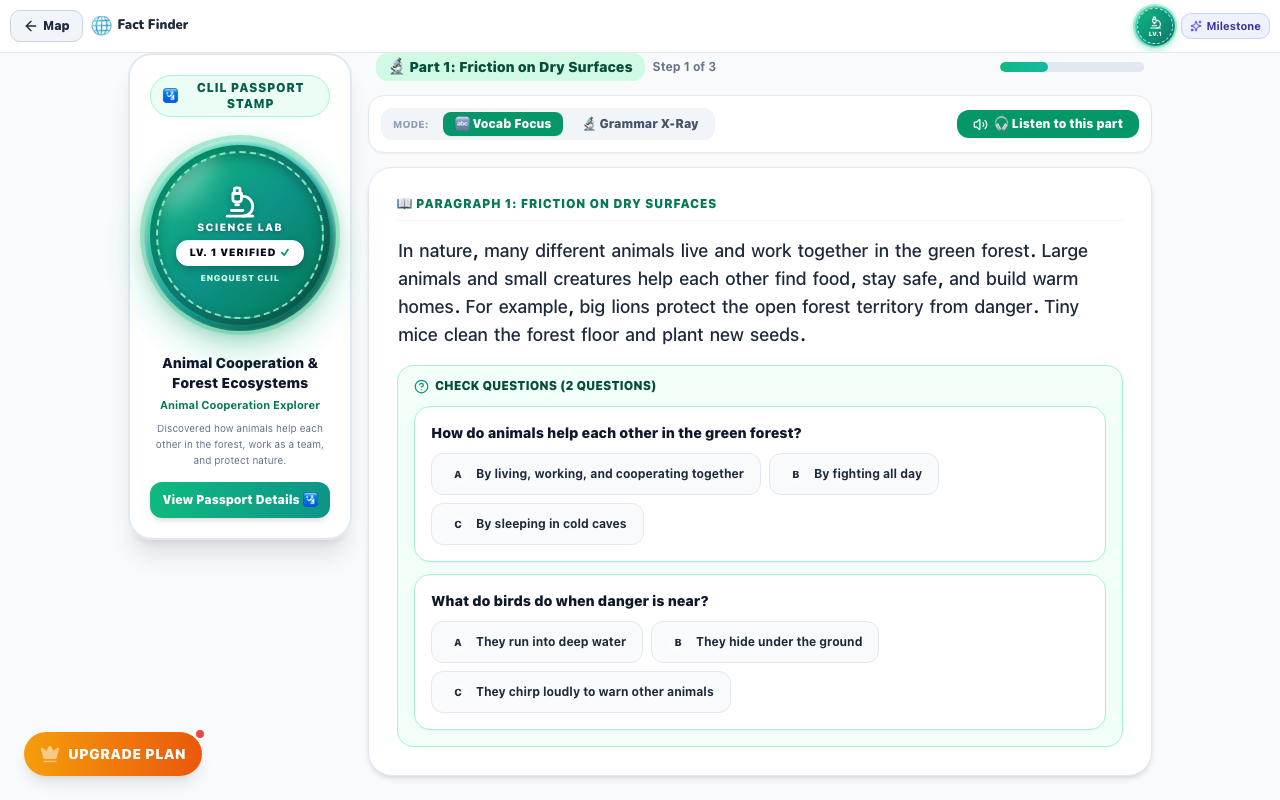
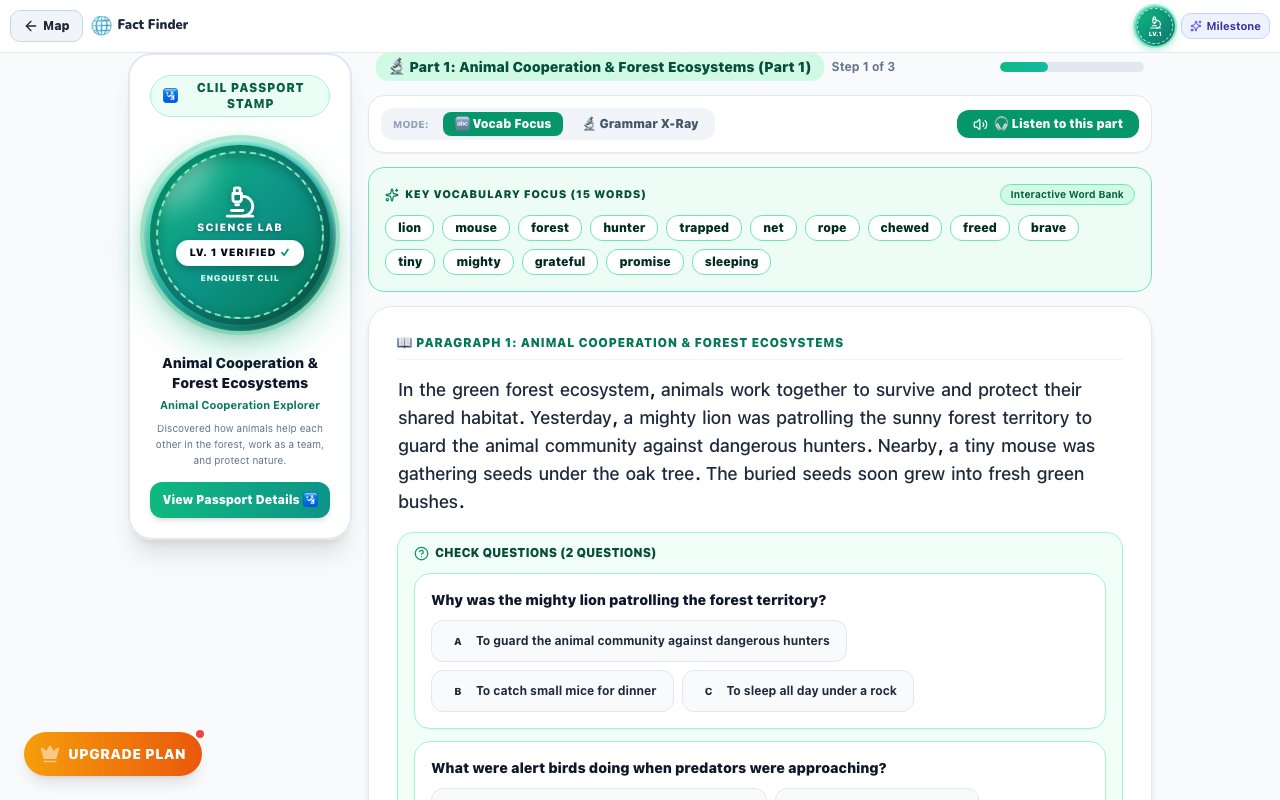
fix(w34): implement G-series fixes (G1-G5) for Week 34 [multi-agent-review]

diff --git a/src/components/cambridge/CLILExplorer.jsx b/src/components/cambridge/CLILExplorer.jsx
@@ -16,9 +16,27 @@ export default function CLILExplorer({
   onCompleteCLIL
 }) {
   const navigate = useNavigate();
+  const [internalMode, setInternalMode] = useState(highlightMode || 'vocab');
+  const activeHighlightMode = setHighlightMode ? highlightMode : internalMode;
+  const handleModeSwitch = (mode) => {
+    setInternalMode(mode);
+    if (setHighlightMode) setHighlightMode(mode);
+  };
+
   const [currentPhase, setCurrentPhase] = useState(1); // 1: Part 1, 2: Part 2, 3: Sentence Builder & Passport
   const [isPlayingAudio, setIsPlayingAudio] = useState(false);
   const [selectedAnswers, setSelectedAnswers] = useState({});
+
+  const grammarPatterns = useMemo(() => {
+    if (Array.isArray(targetGrammarRegex) && targetGrammarRegex.length > 0) return targetGrammarRegex;
+    return [{ pattern: '\\b(was|were)\\s+\\w+ing\\b', label: 'Past Continuous (was/were + V-ing)' }];
+  }, [targetGrammarRegex]);
+
+  const vocabPills = useMemo(() => {
+    if (Array.isArray(clilData?.vocab_focus) && clilData.vocab_focus.length > 0) return clilData.vocab_focus;
+    if (Array.isArray(clilData?.target_vocab) && clilData.target_vocab.length > 0) return clilData.target_vocab;
+    return ["lion", "mouse", "forest", "hunter", "trapped", "net", "rope", "chewed", "freed", "brave", "tiny", "mighty", "grateful", "promise", "sleeping"];
+  }, [clilData]);
 
   // Default Paragraph Split
   const fullText = clilData?.content_en || clilData?.content || "";
@@ -171,17 +189,19 @@ export default function CLILExplorer({
         <div className="flex items-center gap-1.5 bg-slate-100 p-1 rounded-xl">
           <span className="text-[10px] font-black text-slate-400 uppercase px-2">Mode:</span>
           <button
-            onClick={() => setHighlightMode && setHighlightMode('vocab')}
+            type="button"
+            onClick={() => handleModeSwitch('vocab')}
             className={`px-3 py-1 rounded-lg text-xs font-black transition ${
-              highlightMode === 'vocab' ? 'bg-emerald-600 text-white shadow-sm' : 'text-slate-600'
+              activeHighlightMode === 'vocab' ? 'bg-emerald-600 text-white shadow-sm' : 'text-slate-600'
             }`}
           >
             🔤 Vocab Focus
           </button>
           <button
-            onClick={() => setHighlightMode && setHighlightMode('grammar')}
+            type="button"
+            onClick={() => handleModeSwitch('grammar')}
             className={`px-3 py-1 rounded-lg text-xs font-black transition ${
-              highlightMode === 'grammar' ? 'bg-amber-500 text-white shadow-sm' : 'text-slate-600'
+              activeHighlightMode === 'grammar' ? 'bg-amber-500 text-white shadow-sm' : 'text-slate-600'
             }`}
           >
             🔬 Grammar X-Ray
@@ -196,6 +216,52 @@ export default function CLILExplorer({
         </button>
       </div>
 
+      {/* Mode Active Banner & Word Pills */}
+      {activeHighlightMode === 'vocab' && (
+        <div className="p-4 bg-emerald-50/90 border border-emerald-300 rounded-2xl space-y-2.5 shadow-xs animate-in fade-in">
+          <div className="flex items-center justify-between">
+            <span className="text-[11px] font-black uppercase text-emerald-900 tracking-wider flex items-center gap-1.5">
+              <Sparkles size={14} className="text-emerald-700" /> Key Vocabulary Focus ({vocabPills.length} words)
+            </span>
+            <span className="text-[10px] font-bold text-emerald-800 bg-emerald-100 px-2.5 py-0.5 rounded-full border border-emerald-300">
+              Interactive Word Bank
+            </span>
+          </div>
+          <div className="flex flex-wrap gap-2">
+            {vocabPills.map((w, idx) => (
+              <button
+                key={idx}
+                type="button"
+                className="px-3 py-1 bg-white hover:bg-emerald-100 border border-emerald-300 text-emerald-950 font-black text-xs rounded-xl shadow-xs transition active:scale-95 flex items-center gap-1"
+                onClick={() => VoiceService.speakWord(w)}
+              >
+                <span>{w}</span>
+              </button>
+            ))}
+          </div>
+        </div>
+      )}
+
+      {activeHighlightMode === 'grammar' && (
+        <div className="p-4 bg-amber-50/90 border border-amber-300 rounded-2xl space-y-2 shadow-xs animate-in fade-in">
+          <div className="flex items-center justify-between">
+            <span className="text-[11px] font-black uppercase text-amber-900 tracking-wider flex items-center gap-1.5">
+              <BookOpen size={14} className="text-amber-700" /> Grammar X-Ray: Past Continuous (was / were + V-ing)
+            </span>
+            <span className="text-[10px] font-bold text-amber-800 bg-amber-100 px-2.5 py-0.5 rounded-full border border-amber-300">
+              Action in Progress
+            </span>
+          </div>
+          <div className="flex flex-wrap gap-2 text-xs font-black text-amber-950">
+            <span className="px-2.5 py-1 bg-amber-200/90 rounded-lg border border-amber-300">was patrolling</span>
+            <span className="px-2.5 py-1 bg-amber-200/90 rounded-lg border border-amber-300">was gathering</span>
+            <span className="px-2.5 py-1 bg-amber-200/90 rounded-lg border border-amber-300">were chirping</span>
+            <span className="px-2.5 py-1 bg-amber-200/90 rounded-lg border border-amber-300">were approaching</span>
+            <span className="px-2.5 py-1 bg-amber-200/90 rounded-lg border border-amber-300">were helping</span>
+          </div>
+        </div>
+      )}
+
       {/* ========================================================================= */}
       {/* PHASE 1: PARAGRAPH 1 + 2 CHECK QUESTIONS                                  */}
       {/* ========================================================================= */}
@@ -206,7 +272,7 @@ export default function CLILExplorer({
               <span>📖 PARAGRAPH 1: {(clilData?.part_1_title || clilData?.title || 'CLIL ARTICLE').toUpperCase()}</span>
             </div>
             <p className="text-base sm:text-lg text-slate-900 font-bold leading-relaxed">
-              {renderParsedText(paragraphs[0], 'emerald', null, false, highlightMode, targetGrammarRegex)}
+              {renderParsedText(paragraphs[0], 'emerald', null, false, activeHighlightMode, grammarPatterns)}
             </p>
 
             {/* Paragraph 1 Check Questions */}

diff --git a/src/data/weeks/week_34/reading_hub.js b/src/data/weeks/week_34/reading_hub.js
@@ -79,22 +79,23 @@ export const readingHub = {
     ],
     clil_article: {
       title: "Animal Cooperation & Forest Ecosystems",
-      content_en: "In nature, many different animals live and work together in the green forest. Large animals and small creatures help each other find food, stay safe, and build warm homes. For example, big lions protect the open forest territory from danger. Tiny mice clean the forest floor and plant new seeds. Birds fly high in the sky and chirp loudly to warn other animals when danger is near. When different animals cooperate and live in peace, the whole forest ecosystem stays healthy, green, and full of life. True teamwork makes everyone stronger and happier every day.",
-      content_vi: "Trong tự nhiên, nhiều loài động vật khác nhau cùng chung sống và làm việc cùng nhau trong khu rừng xanh. Động vật lớn và sinh vật nhỏ giúp nhau tìm kiếm thức ăn, giữ an toàn và xây dựng tổ ấm. Ví dụ, những chú sư tử lớn bảo vệ lãnh thổ khỏi những kẻ xâm nhập nguy hiểm, trong khi những chú chuột nhỏ giúp làm sạch mặt đất và gieo những hạt giống mới. Những chú chim bay cao trên bầu trời và hót vang để cảnh báo các loài vật khác khi nguy hiểm đến gần. Khi các loài động vật khác nhau hợp tác và chung sống hòa bình, toàn bộ hệ sinh thái rừng luôn khỏe mạnh, xanh tươi và tràn đầy sức sống. Sự đoàn kết thực sự giúp mọi sinh vật trở nên mạnh mẽ hơn và vui vẻ hơn mỗi ngày.",
+      content_en: "In the green forest ecosystem, animals work together to survive and protect their shared habitat. Yesterday, a mighty lion was patrolling the sunny forest territory to guard the animal community against dangerous hunters. Nearby, a tiny mouse was gathering seeds under the oak tree. The buried seeds soon grew into fresh green bushes. High above the ground, alert birds were chirping warning signals from thick branches whenever predators were approaching. The brave creatures were helping each other build safe shelters and gather food across the forest. When different species cooperate in nature, the whole forest ecosystem stays healthy, vibrant, and strong.",
+      content_vi: "Trong hệ sinh thái rừng xanh, các loài động vật cùng nhau làm việc để sinh tồn và bảo vệ môi trường sống chung. Hôm qua, một chú sư tử dũng mãnh đã tuần tra lãnh thổ rừng rực nắng để bảo vệ cộng đồng động vật khỏi những kẻ săn bắn nguy hiểm. Gần đó, một chú chuột nhỏ đang thu gom hạt giống dưới gốc cây sồi. Những hạt giống được vùi đã sớm mọc thành những bụi cây xanh tươi mới. Trên cao khỏi mặt đất, những chú chim cảnh giác hót vang tín hiệu cảnh báo từ cành cây dày mỗi khi có thú săn mồi đang tiến lại gần. Những sinh vật dũng cảm đã giúp đỡ lẫn nhau xây dựng nơi trú ẩn an toàn và thu thập thức ăn khắp khu rừng. Khi các loài khác nhau hợp tác trong tự nhiên, toàn bộ hệ sinh thái rừng luôn khỏe mạnh, tràn đầy sức sống và bền vững.",
       cover_image: "/images/week34/explore_cover_w34.jpg",
       audio_url: "/audio/week34/explore.mp3",
+      vocab_focus: ["lion", "mouse", "forest", "hunter", "trapped", "net", "rope", "chewed", "freed", "brave", "tiny", "mighty", "grateful", "promise", "sleeping"],
       comprehension_questions: [
         {
           id: "q1",
-          question: "How do animals help each other in the green forest?",
-          options: ["By living, working, and cooperating together", "By fighting all day", "By sleeping in cold caves"],
-          answer: "By living, working, and cooperating together"
+          question: "Why was the mighty lion patrolling the forest territory?",
+          options: ["To guard the animal community against dangerous hunters", "To catch small mice for dinner", "To sleep all day under a rock"],
+          answer: "To guard the animal community against dangerous hunters"
         },
         {
           id: "q2",
-          question: "What do birds do when danger is near?",
-          options: ["They chirp loudly to warn other animals", "They run into deep water", "They hide under the ground"],
-          answer: "They chirp loudly to warn other animals"
+          question: "What were alert birds doing when predators were approaching?",
+          options: ["Chirping warning signals from thick branches", "Flying away to a far city", "Hiding in deep water"],
+          answer: "Chirping warning signals from thick branches"
         }
       ]
     }

diff --git a/src/components/questmap/TaskScreen.jsx b/src/components/questmap/TaskScreen.jsx
@@ -82,33 +82,80 @@ class TaskErrorBoundary extends React.Component {
 
 function adaptInfoExchangeCards(infoCards) {
   if (!infoCards) return null;
-  // Already in table_a/table_b format
-  if (infoCards.table_a && infoCards.table_b) return infoCards;
-  // Convert candidate_card/examiner_card format to table_a/table_b
-  const toFields = (card) => {
-    if (!card) return [];
-    // items: [{label, value}] → fields: [{field_label, nova_question, answer}]
-    if (card.items && Array.isArray(card.items)) {
-      return card.items.map((item, i) => ({
-        field_label: item.label || `Field ${i + 1}`,
-        nova_question: `What is the ${(item.label || 'field').toLowerCase()}?`,
-        answer: item.value || ''
-      }));
-    }
-    return [];
+  // Already in full table_a/table_b format
+  if (infoCards.table_a && infoCards.table_b && Array.isArray(infoCards.table_a?.fields) && infoCards.table_a.fields[0]?.cue_prompt) {
+    return infoCards;
+  }
+
+  const candidateCard = infoCards.candidate_card || infoCards.table_a || {};
+  const examinerCard = infoCards.examiner_card || infoCards.table_b || {};
+  const cardATitle = candidateCard.title || "The Lion's Home";
+  const cardBTitle = examinerCard.title || "The Mouse's Home";
+
+  const toFieldsA = (card) => {
+    const items = card.items || card.fields || [];
+    return items.map((item, i) => {
+      const label = item.label || item.field_label || `Feature ${i + 1}`;
+      const val = item.value || item.answer || 'Green Valley Forest';
+      const cueWord = label.toLowerCase().includes('location') || label.toLowerCase().includes('where')
+        ? 'where'
+        : label.toLowerCase().includes('time') || label.toLowerCase().includes('when')
+        ? 'when'
+        : 'what';
+
+      return {
+        id: `field_a${i + 1}`,
+        label: `${label}: ${val}`,
+        field_label: label,
+        value: val,
+        cue_word: cueWord,
+        cue_prompt: `${label} / ${cardATitle} / ${val}?`,
+        nova_reply: `The ${label.toLowerCase()} is ${val}.`,
+        acceptable_questions: [
+          `What is the ${label.toLowerCase()} of ${cardATitle}?`,
+          `Where is the ${label.toLowerCase()}?`,
+          `When is the ${label.toLowerCase()}?`,
+          `Can you tell me the ${label.toLowerCase()}?`,
+          `What is the ${label.toLowerCase()}?`
+        ]
+      };
+    });
   };
-  const candidateCard = infoCards.candidate_card || {};
-  const examinerCard = infoCards.examiner_card || {};
+
+  const toFieldsB = (card) => {
+    const items = card.items || card.fields || [];
+    return items.map((item, i) => {
+      const label = item.label || item.field_label || `Detail ${i + 1}`;
+      const val = item.value || item.answer || 'Under the Oak Tree';
+      return {
+        id: `field_b${i + 1}`,
+        label: `${label}: ${val}`,
+        field_label: label,
+        value: val,
+        nova_question: `What is the ${label.toLowerCase()} of ${cardBTitle}?`,
+        answer: val,
+        acceptable_answers: [
+          val,
+          `The ${label.toLowerCase()} is ${val}.`
+        ]
+      };
+    });
+  };
+
   return {
-    topic: infoCards.topic || candidateCard.title || 'Information Exchange',
-    prompt_questions: infoCards.prompt_questions || [],
+    topic: infoCards.topic || `${cardATitle} & ${cardBTitle}`,
+    prompt_questions: infoCards.prompt_questions || [
+      `Where does the character live?`,
+      `What is the special skill?`,
+      `When is the resting time?`
+    ],
     table_a: {
-      title: candidateCard.title || 'Candidate Card A',
-      fields: toFields(candidateCard)
+      title: `${cardATitle} (Candidate Question Card)`,
+      fields: toFieldsA(candidateCard)
     },
     table_b: {
-      title: examinerCard.title || 'Candidate Card B',
-      fields: toFields(examinerCard)
+      title: `${cardBTitle} (Examiner Answer Card)`,
+      fields: toFieldsB(examinerCard)
     }
   };
 }

diff --git a/src/data/weeks/week_34/singapore_math.js b/src/data/weeks/week_34/singapore_math.js
@@ -5,17 +5,17 @@ export default {
     {
       id: 1,
       title: "Problem 1: Rope Length for the Trap (Part-Whole)",
-      problemText: "The hunters had 60 meters of strong rope. They used 25 meters to make the net. How many meters of rope were left?",
+      problemText: "The hunters had 60 feet of strong rope. They used 25 feet to make the net. How many feet of rope were left?",
       correctAnswer: 35,
-      answer: "35 meters",
-      hintText: "Total rope (60m) - Used rope (25m) = 35 meters remaining.",
+      answer: "35 feet",
+      hintText: "Total rope (60 ft) - Used rope (25 ft) = 35 feet remaining.",
       modelData: {
         type: "part_whole",
         bars: [
-          { value: 25, label: "25m used", color: "#ef4444" },
-          { value: 35, label: "35m left", color: "#22c55e" }
+          { value: 25, label: "25 ft used", color: "#ef4444" },
+          { value: 35, label: "35 ft left", color: "#22c55e" }
         ],
-        totalLabel: "60m rope total"
+        totalLabel: "60 ft rope total"
       }
     },
     {
@@ -37,17 +37,17 @@ export default {
     {
       id: 3,
       title: "Problem 3: Mouse Running Distance (Comparison)",
-      problemText: "The mouse ran 80 meters to reach the trapped lion. A rabbit ran 45 meters. How many more meters did the mouse run?",
+      problemText: "The mouse ran 80 steps to reach the trapped lion. A rabbit ran 45 steps. How many more steps did the mouse run?",
       correctAnswer: 35,
-      answer: "35 meters",
-      hintText: "Mouse distance (80m) - Rabbit distance (45m) = 35 meters difference.",
+      answer: "35 steps",
+      hintText: "Mouse distance (80 steps) - Rabbit distance (45 steps) = 35 steps difference.",
       modelData: {
         type: "comparison",
         bars: [
-          { value: 80, label: "Mouse (80m)", color: "#8b5cf6" },
-          { value: 45, label: "Rabbit (45m)", color: "#f59e0b" }
+          { value: 80, label: "Mouse (80 steps)", color: "#8b5cf6" },
+          { value: 45, label: "Rabbit (45 steps)", color: "#f59e0b" }
         ],
-        diffLabel: "35m more"
+        diffLabel: "35 steps more"
       }
     },
     {

diff --git a/src/modules/zones/BattleArenaZone.jsx b/src/modules/zones/BattleArenaZone.jsx
@@ -54,8 +54,8 @@ export default function BattleArenaZone({ data, weekNumber, forcedStation = null
   const flashArenaData = arenaData.flashArena || arenaData.vocabSets || arenaData.vocab || data?.stations?.new_words || null;
   const grammarDrills = arenaData.grammarDrills || data?.stations?.grammar || null;
   const vocabList = arenaData.vocabList || data?.stations?.new_words?.vocab_list || [];
-  const barModelData = arenaData.barModel || logicLabData.singapore_math || null;
-  const scienceLabData = arenaData.scienceLab || logicLabData.logic_science || null;
+  const barModelData = arenaData.barModel || data?.listening_hub?.singapore_math || data?.stations?.listening_hub?.singapore_math || logicLabData.singapore_math || null;
+  const scienceLabData = arenaData.scienceLab || data?.listening_hub?.science_lab || data?.stations?.listening_hub?.science_lab || logicLabData.logic_science || null;
 
   const handleGameComplete = (earnedXP = 30) => {
     setTotalXP(prev => prev + earnedXP);

diff --git a/src/config/bossRotarySchedule.js b/src/config/bossRotarySchedule.js
@@ -20,13 +20,13 @@ export const BOSS_ROTARY_CYCLES = {
   },
   2: {
     cycleName: "Color, Code & Lexicon Quests",
-    subtitle: "Focus on Visual Audio & Definition Matching",
+    subtitle: "Focus on Audio Quiz, Word Matching & Vector Color",
     testedSkills: ["listening_p4", "listening_p5", "rw_p1"],
     shieldCount: 3,
     approxDurationMin: 15,
     bossTitle: "Chroma Detective Nova",
     bossAvatar: "🎨",
-    bossDescription: "3-Picture audio quiz, vector color coordination, and definition word matching!"
+    bossDescription: "3-Picture audio quiz, definition word matching, and vector color coordination!"
   },
   3: {
     cycleName: "Deep Reading & Cloze Quests",

diff --git a/src/modules/zones/BossBattleZone.jsx b/src/modules/zones/BossBattleZone.jsx
@@ -124,8 +124,8 @@ export default function BossBattleZone({ data, weekNumber, forcedStation = null,
     if (rotaryConfig.cycleNumber === 2) {
       return [
         { id: 'list_p4', name: 'Listening Part 4: 3-Picture Quiz', shieldName: 'Shield 4 (Listening P4)' },
-        { id: 'list_p5', name: 'Listening Part 5: Color & Write', shieldName: 'Shield 5 (Listening P5)' },
         { id: 'rw_p1', name: 'Reading Part 1: Word Bank Match', shieldName: 'Shield 6 (R&W P1)' },
+        { id: 'spk_p1', name: 'Speaking Part 1: Find Differences', shieldName: 'Shield 13 (Speaking P1)' },
       ];
     }
 

diff --git a/src/data/weeks/week_34/listening_hub.js b/src/data/weeks/week_34/listening_hub.js
@@ -65,7 +65,7 @@ export const listeningHub = {
     },
     {
       id: 4,
-      problem_en: "The hunters had 45 meters of rope. They used 27 meters for a net. How many meters of rope remained?",
+      problem_en: "The hunters had 45 feet of rope. They used 27 feet for a net. How many feet of rope remained?",
       bar_model_svg: "/images/week34/barmodel_w34_adv_p4.svg",
       answer_value: 18
     },
